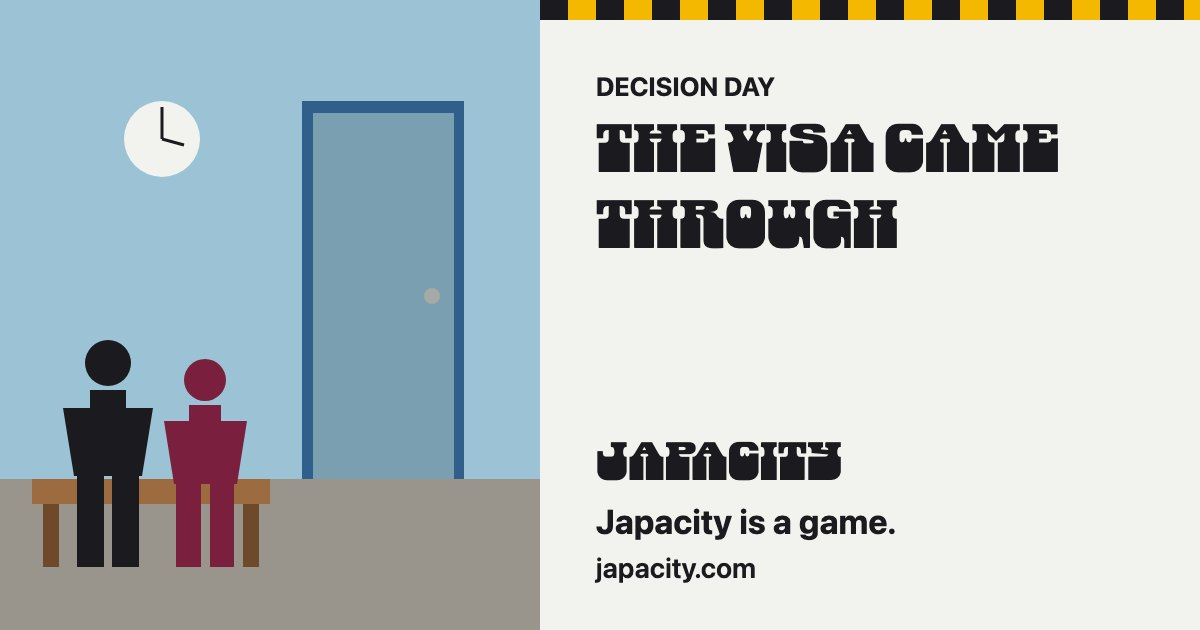
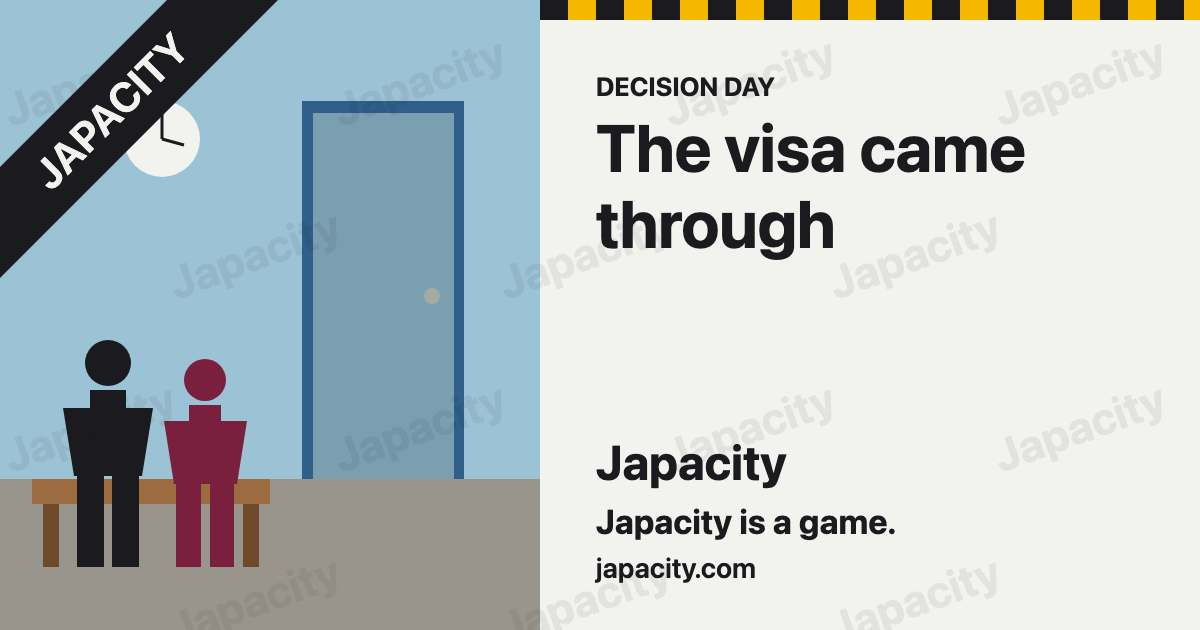
Share cards: the watermark, the corner badge and the foot on every card and link preview (R-SHARE-006)
- the first JPEG quality is 62
- the nine link previews are drawn with the marks; the register carries their sizes

diff --git a/apps/client/src/shared/card/marks.test.ts b/apps/client/src/shared/card/marks.test.ts
@@ -1,0 +1,140 @@
+// The three marks on every share picture (docs/rules/share.md R-SHARE-006, the review): a
+// faint watermark of the game's name across the background, a diagonal badge at a top corner with the
+// game's name, and the branding with the address at the foot. Drawn under the words, never over them.
+import { content, shareChapters, shareKinds, text, type ShareKind } from "@japacity/content";
+import { afterEach, describe, expect, test, vi } from "vitest";
+
+import { recordedGame } from "../testing/fixtures";
+import { cardFace, type ShareCard } from "./face";
+import { fakeCanvas } from "./fakeCanvas";
+import { cardSteps, previewSteps, type MarkStep, type Measure, type Size, type Step, type TextStep } from "./layout";
+import { renderCard, renderPreview } from "./render";
+
+const tuning = content.tuning.share;
+const SIZE = { width: tuning.width, height: tuning.height };
+const PREVIEW = { width: tuning.previewWidth, height: tuning.previewHeight };
+const measure: Measure = (words, size) => Math.round(words.length * size * 0.55);
+const NAME = text["share.sender"]!;
+
+function adaCard(): ShareCard {
+  const card = recordedGame("ada-careful").view().card;
+  if (card === null) throw new Error("Ada's recorded life has no card.");
+  return card;
+}
+
+function cardOf(kind: ShareKind, chapter: ShareCard["chapter"] = "chapter.build-the-file"): ShareCard {
+  return { ...adaCard(), kind, ...(kind === "chapter" ? { chapter } : {}) };
+}
+
+function marks(steps: readonly Step[], role: MarkStep["role"]): MarkStep[] {
+  return steps.filter((step): step is MarkStep => step.op === "mark" && step.role === role);
+}
+
+function words(steps: readonly Step[]): TextStep[] {
+  return steps.filter((step): step is TextStep => step.op === "text");
+}
+
+type Point = [number, number];
+
+/** The box a line of words takes: from its baseline up by its size, across by its measured width. */
+function boxOf(step: TextStep): Point[] {
+  const width = measure(step.text, step.size, step.family, step.weight);
+  const left = step.align === "left" ? step.x : step.x - width;
+  const top = step.y - step.size;
+  return [
+    [left, top],
+    [left + width, top],
+    [left + width, step.y],
+    [left, step.y],
+  ];
+}
+
+/** True when two convex shapes overlap: no edge of either separates them. */
+function overlaps(first: Point[], second: Point[]): boolean {
+  for (const shape of [first, second]) {
+    for (let at = 0; at < shape.length; at += 1) {
+      const [x1, y1] = shape[at]!;
+      const [x2, y2] = shape[(at + 1) % shape.length]!;
+      const axis: Point = [y1 - y2, x2 - x1];
+      const project = (points: Point[]) => points.map(([x, y]) => x * axis[0] + y * axis[1]);
+      const a = project(first);
+      const b = project(second);
+      if (Math.max(...a) <= Math.min(...b) || Math.max(...b) <= Math.min(...a)) return false;
+    }
+  }
+  return true;
+}
+
+/** Every card the game lays out: each kind, and a chapter card for every chapter's art. */
+function everyCard(): { label: string; steps: Step[]; size: Size }[] {
+  const kinds = shareKinds.map((kind) => ({ label: kind, steps: cardSteps(cardFace(cardOf(kind), "scenario.ada"), SIZE, measure), size: SIZE }));
+  const chapters = shareChapters.map((chapter) => ({ label: chapter, steps: cardSteps(cardFace(cardOf("chapter", chapter), "scenario.ada"), SIZE, measure), size: SIZE }));
+  const previews = shareKinds.map((kind) => ({ label: `preview ${kind}`, steps: previewSteps(cardFace(cardOf(kind), null), PREVIEW, measure), size: PREVIEW }));
+  return [...kinds, ...chapters, ...previews];
+}
+
+afterEach(() => {
+  vi.restoreAllMocks();
+});
+
+describe("the marks on every share picture", () => {
+  test("[R-SHARE-006] given every card and every preview, when laid out, then a faint watermark of the game's name repeats across the background, under every word", () => {
+    for (const { label, steps, size } of everyCard()) {
+      const watermark = marks(steps, "watermark");
+      expect([label, watermark.length >= 6]).toEqual([label, true]);
+      for (const mark of watermark) {
+        expect(mark.text).toBe(NAME);
+        expect(mark.alpha).toBeGreaterThan(0);
+        expect(mark.alpha).toBeLessThanOrEqual(12);
+        expect(mark.x).toBeGreaterThanOrEqual(0);
+        expect(mark.x).toBeLessThanOrEqual(size.width);
+        expect(mark.y).toBeGreaterThanOrEqual(0);
+        expect(mark.y).toBeLessThanOrEqual(size.height);
+      }
+      // Spread over the picture, not bunched in one band: it reaches both halves each way.
+      expect(watermark.some((mark) => mark.y < size.height / 2) && watermark.some((mark) => mark.y > size.height / 2)).toBe(true);
+      expect(watermark.some((mark) => mark.x < size.width / 2) && watermark.some((mark) => mark.x > size.width / 2)).toBe(true);
+      const lastMark = Math.max(...watermark.map((mark) => steps.indexOf(mark)));
+      const firstWord = steps.findIndex((step) => step.op === "text");
+      expect([label, lastMark < firstWord]).toEqual([label, true]);
+    }
+  });
+
+  test("[R-SHARE-006] given every card and every preview, when laid out, then one diagonal badge with the game's name sits on a top corner and covers no word", () => {
+    for (const { label, steps, size } of everyCard()) {
+      const badges = marks(steps, "badge");
+      expect([label, badges.length]).toEqual([label, 1]);
+      const badge = badges[0]!;
+      expect(badge.text.toLowerCase()).toBe(NAME.toLowerCase());
+      expect(Math.abs(badge.angle)).toBe(45);
+      expect(badge.alpha).toBe(100);
+      const band = badge.band!.points;
+      // A top corner: the band touches the top edge and one side edge.
+      expect(band.some(([, y]) => y === 0)).toBe(true);
+      expect(band.some(([x]) => x === 0) || band.some(([x]) => x === size.width)).toBe(true);
+      expect(badge.y).toBeLessThan(size.height / 4);
+      for (const word of words(steps)) expect([label, word.text, overlaps(boxOf(word), band)]).toEqual([label, word.text, false]);
+    }
+  });
+
+  test("[R-SHARE-006] given every card and every preview, when laid out, then the game's name and its address are at the foot", () => {
+    for (const { label, steps, size } of everyCard()) {
+      const sender = words(steps).find((step) => step.role === "sender");
+      const address = words(steps).find((step) => step.role === "address");
+      expect([label, sender?.text, address?.text]).toEqual([label, NAME, text["share.address"]]);
+      expect(sender!.y).toBeGreaterThan(size.height * 0.75);
+      expect(address!.y).toBeGreaterThan(size.height * 0.75);
+    }
+  });
+
+  test("[R-SHARE-006] given a card and a preview drawn on the canvas, when encoded, then the watermark and the badge were painted before the file was made", async () => {
+    const drawn = fakeCanvas(() => 1000);
+    expect((await renderCard(cardFace(adaCard(), "scenario.ada"))).ok).toBe(true);
+    const names = drawn.texts.filter((entry) => entry.text.toLowerCase() === NAME.toLowerCase());
+    // The watermark's repeats, the badge and the word mark at the foot.
+    expect(names.length).toBeGreaterThanOrEqual(8);
+    const preview = fakeCanvas(() => 1000);
+    expect((await renderPreview(cardFace(adaCard(), null))).ok).toBe(true);
+    expect(preview.texts.filter((entry) => entry.text.toLowerCase() === NAME.toLowerCase()).length).toBeGreaterThanOrEqual(8);
+  });
+});

diff --git a/apps/client/src/shared/card/layout.ts b/apps/client/src/shared/card/layout.ts
@@ -40,7 +40,26 @@ export interface TextStep {
   align: "left" | "right";
 }
 
-export type Step = Shape | TextStep | { op: "clip"; box: Box; radius: number } | { op: "unclip" };
+/**
+ * A mark of the game's own on the picture (R-SHARE-006): the faint watermark's repeats and the corner
+ * badge. Turned about its centre by `angle` degrees, clockwise; `alpha` is its opacity in hundredths.
+ * Not a word of the card: the layout keeps it under the words or clear of them.
+ */
+export interface MarkStep {
+  op: "mark";
+  role: "watermark" | "badge";
+  text: string;
+  x: number;
+  y: number;
+  size: number;
+  angle: number;
+  color: PaletteName;
+  alpha: number;
+  /** The badge's band, filled before its name; null for the watermark. */
+  band: { points: [number, number][]; color: PaletteName } | null;
+}
+
+export type Step = Shape | TextStep | MarkStep | { op: "clip"; box: Box; radius: number } | { op: "unclip" };
 
 /** The width of `text` drawn at `size` in `family` and `weight`. */
 export type Measure = (text: string, size: number, family: Family, weight: number) => number;
@@ -94,6 +113,58 @@ function stripes(x: number, y: number, width: number, height: number, band: numb
   const shapes: Shape[] = [{ op: "rect", x, y, w: width, h: height, color: tone.ink }];
   for (let left = x + band; left < x + width; left += band * 2) shapes.push({ op: "rect", x: left, y, w: Math.min(band, x + width - left), h: height, color: "danfoYellow" });
   return shapes;
+}
+
+/** The watermark's opacity, in hundredths: faint enough that the words over it read, plain enough to show in a crop. */
+const WATERMARK_ALPHA = 7;
+
+/**
+ * The game's name repeated across the whole picture at a slant (R-SHARE-006), each repeat anchored inside
+ * it, rows offset so no column lines up. `unit` scales the card's design sizes to this picture.
+ */
+export function watermark(name: string, size: Size, unit: (value: number) => number, color: PaletteName): MarkStep[] {
+  const steps: MarkStep[] = [];
+  const across = unit(440);
+  const down = unit(230);
+  for (let row = 0, y = unit(110); y <= size.height; row += 1, y += down) {
+    for (let x = row % 2 === 0 ? unit(120) : unit(340); x <= size.width; x += across) {
+      steps.push({ op: "mark", role: "watermark", text: name, x, y, size: unit(60), angle: -20, color, alpha: WATERMARK_ALPHA, band: null });
+    }
+  }
+  return steps;
+}
+
+/**
+ * The diagonal badge across a top corner (R-SHARE-006): a band cut across the corner between `near` and
+ * `far` along each edge, with the game's name along it in capitals.
+ */
+export function cornerBadge(name: string, size: Size, unit: (value: number) => number, corner: "left" | "right", tone: { band: PaletteName; ink: PaletteName }): MarkStep {
+  const near = unit(150);
+  const far = unit(250);
+  const middle = Math.round((near + far) / 2);
+  const right = corner === "right";
+  const edge = right ? size.width : 0;
+  const inward = (distance: number) => (right ? size.width - distance : distance);
+  return {
+    op: "mark",
+    role: "badge",
+    text: name.toUpperCase(),
+    x: inward(Math.round(middle / 2)),
+    y: Math.round(middle / 2),
+    size: unit(38),
+    angle: right ? 45 : -45,
+    color: tone.ink,
+    alpha: 100,
+    band: {
+      points: [
+        [inward(far), 0],
+        [inward(near), 0],
+        [edge, near],
+        [edge, far],
+      ],
+      color: tone.band,
+    },
+  };
 }
 
 /** The drawing steps of a whole card at `size` (R-SHARE-004, R-SHARE-009). */
@@ -171,6 +242,9 @@ export function cardSteps(face: CardFace, size: Size, measure: Measure): Step[] 
     { op: "clip", box: art, radius: unit(36) },
     ...(artShapes(face.art, art) ?? [{ op: "rect", x: art.x, y: art.y, w: art.w, h: art.h, color: tone.soft } satisfies Shape]),
     { op: "unclip" },
+    // The marks before the words (R-SHARE-006): the watermark over the art and the ground, the badge on the corner the art starts under.
+    ...watermark(face.sender, size, unit, tone.ink),
+    cornerBadge(face.sender, size, unit, "right", { band: tone.ink, ink: tone.background }),
     ...text.map((step) => ({ ...step, y: step.y + shift })),
     ...footer,
     ...footText,
@@ -191,6 +265,9 @@ export function previewSteps(face: Pick<CardFace, "kind" | "kicker" | "title" | 
     { op: "rect", x: 0, y: 0, w: size.width, h: size.height, color: tone.background },
     ...(artShapes(face.art, art) ?? []),
     ...stripes(art.w, 0, size.width - art.w, unit(20), unit(28), tone),
+    // The marks (R-SHARE-006): the watermark closer set, since the preview is short; the badge on the art's corner, clear of the words.
+    ...watermark(face.sender, size, scaler(size.width, 1600), tone.ink),
+    cornerBadge(face.sender, size, scaler(size.width, 1080), "left", { band: tone.ink, ink: tone.background }),
   ];
   const put = (role: TextRole, words: string, y: number, sizePx: number, weight: TextStep["weight"], family: Family) =>
     steps.push({ op: "text", role, text: words, x: left, y, size: sizePx, weight, family, color: tone.ink, align: "left" });

diff --git a/apps/client/src/shared/card/paint.ts b/apps/client/src/shared/card/paint.ts
@@ -69,6 +69,29 @@ export function paint(context: CanvasRenderingContext2D, steps: readonly Step[])
         context.textBaseline = "alphabetic";
         context.fillText(step.text, step.x, step.y);
         break;
+      case "mark":
+        context.save();
+        context.globalAlpha = step.alpha / 100;
+        if (step.band !== null) {
+          const [first, ...rest] = step.band.points;
+          if (first !== undefined) {
+            context.fillStyle = paletteCss(step.band.color);
+            context.beginPath();
+            context.moveTo(first[0], first[1]);
+            for (const [x, y] of rest) context.lineTo(x, y);
+            context.closePath();
+            context.fill();
+          }
+        }
+        context.translate(step.x, step.y);
+        context.rotate((step.angle * Math.PI) / 180);
+        context.fillStyle = paletteCss(step.color);
+        context.font = fontOf(step.size, "sans", 700);
+        context.textAlign = "center";
+        context.textBaseline = "middle";
+        context.fillText(step.text, 0, 0);
+        context.restore();
+        break;
       case "clip":
         context.save();
         context.beginPath();

diff --git a/apps/client/src/shared/card/encode.ts b/apps/client/src/shared/card/encode.ts
@@ -2,8 +2,8 @@
 // R-SHARE-009, R-SHARE-010): the image is encoded at falling qualities until it
 // is under the limit, and refused when even the lowest is not.
 
-/** JPEG qualities tried in turn, in hundredths. The first sits where the busiest face (the send-off: a body, three long things done, black words on the yellow) keeps room under the limit. */
-export const QUALITIES = [68, 60, 52, 46, 40] as const;
+/** JPEG qualities tried in turn, in hundredths. The first sits where the busiest face (the send-off: a body, three long things done, black words on the yellow, and the marks of R-SHARE-006 over it all) keeps room under the limit. */
+export const QUALITIES = [62, 56, 50, 46, 40] as const;
 
 export type Encoded = { ok: true; blob: Blob; quality: number } | { ok: false; reason: "too-big" | "no-image"; bytes: number };
 
